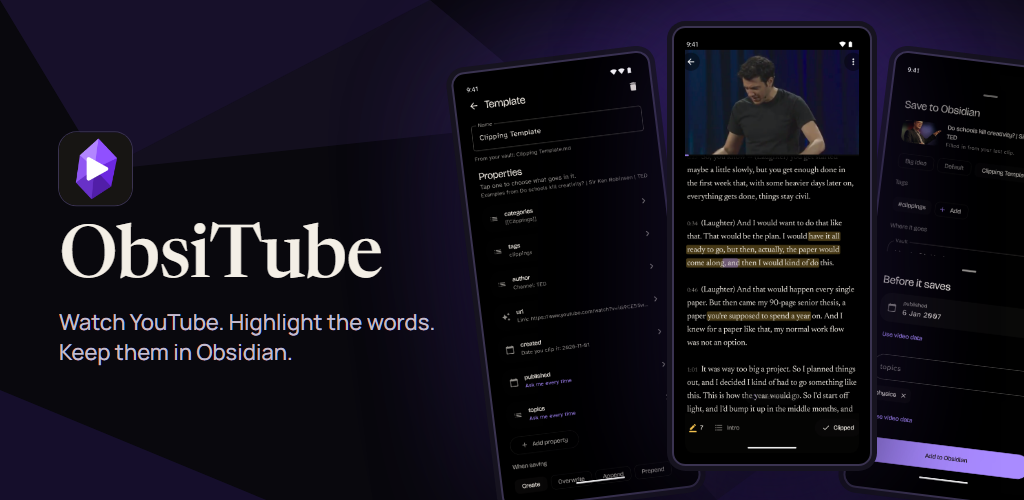
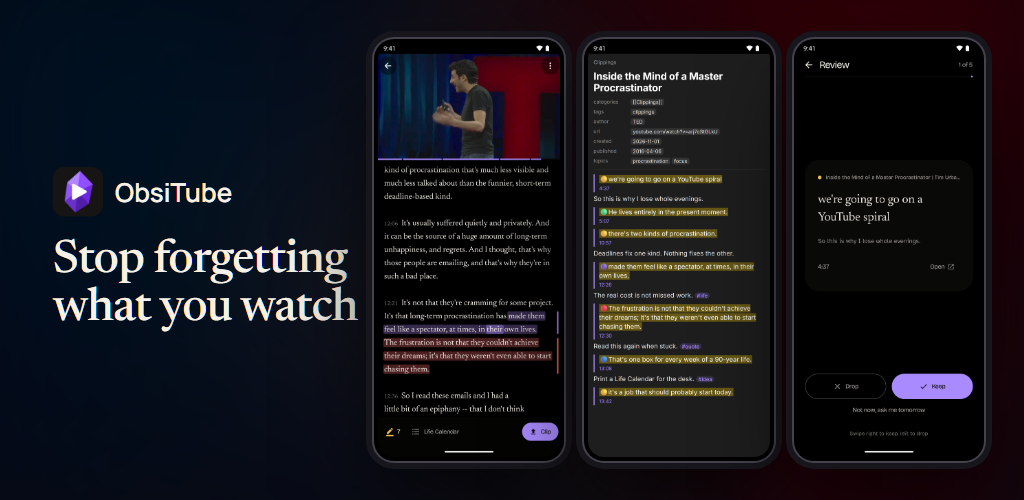
Store art and text tell one story, from forgetting to remembering

diff --git a/docs/store/listing.md b/docs/store/listing.md
@@ -6,33 +6,39 @@ ObsiTube
 
 ## Short description (under 80 characters)
 
-Read YouTube videos, highlight the words, and clip them to Obsidian.
+Stop forgetting YouTube. Highlight the words and keep them in Obsidian.
 
 ## Full description
 
-Stop losing what you learn from YouTube.
+You spend hours on YouTube. A week later, you can't remember a thing.
 
-ObsiTube turns any video into text you can read, mark up and keep. Paste a link and listen or watch. The transcript follows along, word by word. Hold a word to highlight it. When you finish, your highlights go straight into your Obsidian vault as a clean note.
+ObsiTube fixes that. It turns any video into words you can read, keep and see again.
 
-READ ALONG
-• The spoken word is marked as the video plays
-• Real, selectable text in a calm reading view
-• Audio or video, in the background, with full screen
+READ EVERY WORD YOU HEAR
+• The transcript follows the video, word by word
+• Listen in the background, or watch full screen
 • Chapters, double tap to skip, and speed control
 • Read along from the lock screen
 
-HIGHLIGHT WHAT MATTERS
+KEEP WHAT MATTERS
+• Hold a word to highlight it
 • Take exact words, a sentence or a paragraph
-• Six colours, plus a note and tags on every highlight
+• Six colours, plus your own note and tags
 • Every highlight links back to its moment in the video
-• Review old highlights in short rounds so they stick
+
+REMEMBER IT
+• Old highlights come back in short Review rounds
+• Get a daily reminder if you want one
+• Find any highlight or note again in seconds
 
 MADE FOR OBSIDIAN
 • Use the templates already in your vault
 • Each property fills itself in from the video
 • See all the video data and choose where it goes
 • Works with every property type: Checkbox, Date, Date & time, List, Number and Text
-• Mark any property "Ask me" and a box opens before the note saves
+• Mark any property "Ask me" to fill it in every time
+• Each box offers the values you already use in your vault
+• Change a template in the app or in Obsidian, and the other side follows
 • Search your folders, tags and notes as you clip
 • Already saved a video? Updating adds to the note and keeps your writing
 • Import and export Obsidian Web Clipper settings
@@ -41,7 +47,7 @@ KEEP YOUR LIBRARY IN ORDER
 • Pick up where you left off, newest first
 • Mark videos as done with one tap or a swipe
 • A queue, playlists, channels and a feed
-• Search across titles, transcripts and highlights
+• Search titles, channels, tags, highlights and notes
 
 MAKE IT YOURS
 • Six app icons, with Amethyst by default
@@ -77,9 +83,9 @@ https://raw.githubusercontent.com/Virus7976/obsidian-web-clipper-YouTube-android
 
 ## Screenshots (1080 x 1920)
 
-1. https://raw.githubusercontent.com/Virus7976/obsidian-web-clipper-YouTube-android-Private/main/docs/store/01-read.png
-2. https://raw.githubusercontent.com/Virus7976/obsidian-web-clipper-YouTube-android-Private/main/docs/store/02-library.png
-3. https://raw.githubusercontent.com/Virus7976/obsidian-web-clipper-YouTube-android-Private/main/docs/store/03-template.png
-4. https://raw.githubusercontent.com/Virus7976/obsidian-web-clipper-YouTube-android-Private/main/docs/store/04-data.png
-5. https://raw.githubusercontent.com/Virus7976/obsidian-web-clipper-YouTube-android-Private/main/docs/store/05-ask.png
-6. https://raw.githubusercontent.com/Virus7976/obsidian-web-clipper-YouTube-android-Private/main/docs/store/06-look.png
+1. https://raw.githubusercontent.com/Virus7976/obsidian-web-clipper-YouTube-android-Private/main/docs/store/01-forget.png
+2. https://raw.githubusercontent.com/Virus7976/obsidian-web-clipper-YouTube-android-Private/main/docs/store/02-read.png
+3. https://raw.githubusercontent.com/Virus7976/obsidian-web-clipper-YouTube-android-Private/main/docs/store/03-keep.png
+4. https://raw.githubusercontent.com/Virus7976/obsidian-web-clipper-YouTube-android-Private/main/docs/store/04-note.png
+5. https://raw.githubusercontent.com/Virus7976/obsidian-web-clipper-YouTube-android-Private/main/docs/store/05-review.png
+6. https://raw.githubusercontent.com/Virus7976/obsidian-web-clipper-YouTube-android-Private/main/docs/store/06-find.png

diff --git a/README.md b/README.md
@@ -11,8 +11,8 @@
 </p>
 
 <p align="center">
-  <b>Turn any YouTube video into notes you keep.</b><br>
-  Listen, read the transcript as it plays, highlight the exact words, and clip it all to Obsidian.
+  <b>Stop forgetting what you watch.</b><br>
+  You spend hours on YouTube. A week later, it is gone. ObsiTube turns a video into words you can read, keep and see again.
 </p>
 
 <p align="center">
@@ -21,20 +21,26 @@
 
 ---
 
-## Screenshots
+## How it works
 
 <table>
   <tr>
-    <td width="33%"><img src="docs/store/01-read.png" alt="Reader with the transcript and highlights"></td>
-    <td width="33%"><img src="docs/store/02-library.png" alt="Library with Pick up where you left off"></td>
-    <td width="33%"><img src="docs/store/03-template.png" alt="A vault template set up for clipping"></td>
+    <td width="33%"><img src="docs/store/01-forget.png" alt="You watch it, then it is gone"></td>
+    <td width="33%"><img src="docs/store/02-read.png" alt="Read the transcript as the video plays"></td>
+    <td width="33%"><img src="docs/store/03-keep.png" alt="Hold a word to highlight it"></td>
   </tr>
   <tr>
-    <td width="33%"><img src="docs/store/04-data.png" alt="The list of video data for a property"></td>
-    <td width="33%"><img src="docs/store/05-ask.png" alt="The fill-in step before a note saves"></td>
-    <td width="33%"><img src="docs/store/06-look.png" alt="App icon and theme settings"></td>
+    <td width="33%"><img src="docs/store/04-note.png" alt="A saved note made from a video"></td>
+    <td width="33%"><img src="docs/store/05-review.png" alt="Old highlights come back in Review"></td>
+    <td width="33%"><img src="docs/store/06-find.png" alt="Search finds your highlights and notes"></td>
   </tr>
 </table>
+
+1. **Read.** The transcript follows the video, word by word.
+2. **Keep.** Hold a word to highlight it, and add your own thought.
+3. **Save.** One tap makes a clean note in your Obsidian vault.
+4. **Remember.** Old highlights come back in short Review rounds.
+5. **Find.** Search your highlights, notes, titles and tags.
 
 ## Features
 
@@ -57,7 +63,7 @@
 | **Mark as done** | Tap the tick, swipe a row, or watch to the end. Undo is one tap away. |
 | **Queue and playlists** | Line up what is next, or import a YouTube playlist. |
 | **Channels and feed** | Follow channels and see what is new. |
-| **Search** | Look through titles, transcripts and highlights. |
+| **Search** | Look through titles, channels, tags, highlights and your notes. |
 
 ### Clip to Obsidian
 
@@ -66,7 +72,9 @@
 | **Your vault templates** | Pick a note from your vault. ObsiTube reads its properties and sets them up. |
 | **Every property type** | Automatic, Checkbox, Date, Date & time, List, Number and Text. |
 | **Video data** | See what the app knows about a video, with real examples, and choose where it goes. |
-| **Ask me every time** | Mark a property and a box opens before the note saves. |
+| **Ask me every time** | Mark a property and its box shows on the save screen. If you leave it empty, it asks before the note saves. |
+| **Values you already use** | Each box offers what that property already has in your vault. |
+| **Two-way sync** | Change a vault template in the app or in Obsidian, and the other side follows. |
 | **Your vault, searched** | Pick folders, tags and notes with fuzzy search. |
 | **Safe updates** | If the video is already in your vault, updating only adds. Your writing stays. |
 | **Web Clipper** | Import and export Obsidian Web Clipper settings. |
